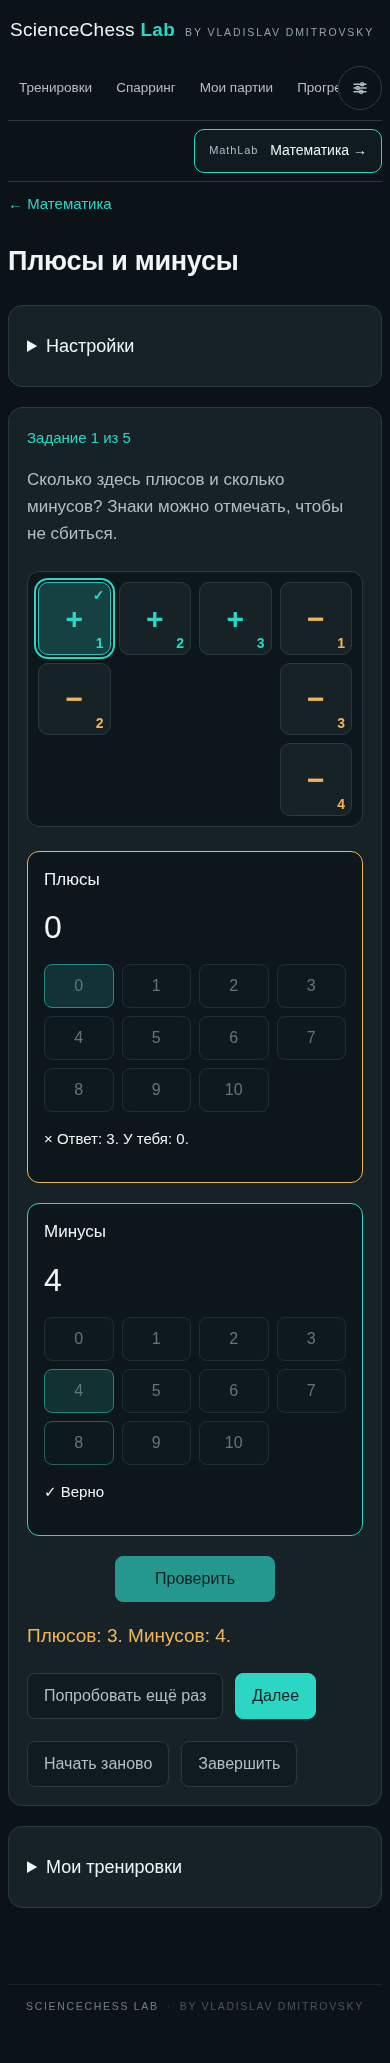
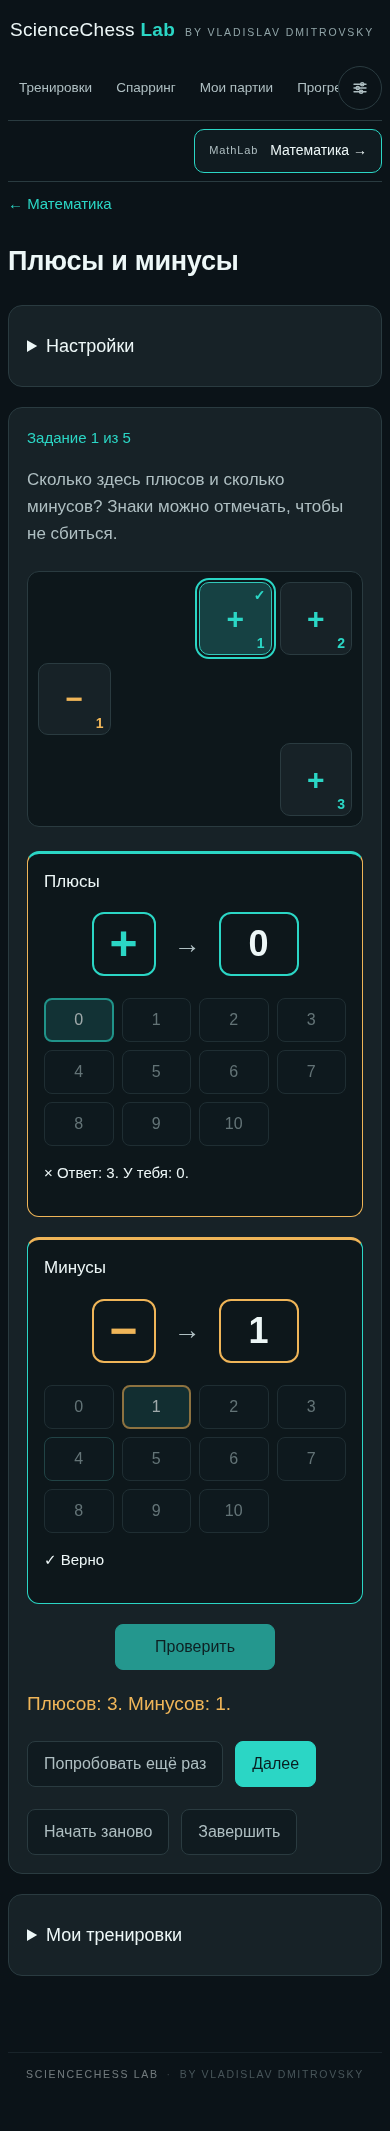
Make sign answer panels clear with matching symbols and number slots

diff --git a/src/modules/mathlab/index.ts b/src/modules/mathlab/index.ts
@@ -199,15 +199,21 @@ function mountExercise(root:HTMLElement,ctx:AppContext,id:Exercise):Unmount {
    const tile=el('button',{type:'button',class:`ml-sign-tile ${symbol==='+'?'ml-sign-plus':'ml-sign-minus'}`,'aria-label':symbol==='+'?'Плюс':'Минус','aria-pressed':'false'},[el('span',{'aria-hidden':'true'},[symbol])]);
    tile.addEventListener('click',()=>{const marked=tile.getAttribute('aria-pressed')!=='true';tile.setAttribute('aria-pressed',String(marked));});board.append(tile);
   }
-  const form=el('form',{class:'ml-sign-form'});const answers:(number|null)[]=[null,null];const outputs:HTMLElement[]=[];const groups:HTMLElement[]=[];
+  const form=el('form',{class:'ml-sign-form'});const answers:(number|null)[]=[null,null];const groups:HTMLElement[]=[];
   const check=el('button',{type:'submit',class:'btn ml-primary'},['Проверить']);check.disabled=true;
   for(const [index,title] of ['Плюсы','Минусы'].entries()){
-   const output=el('output',{'aria-label':`Количество: ${title.toLowerCase()}`,'aria-live':'polite'},['—']);outputs.push(output);
-   const group=el('div',{class:'ml-sign-answer',role:'group','aria-label':`Ответ: ${title.toLowerCase()}`},[el('h3',{},[title]),output]);
+   const output=el('output',{'aria-label':`Количество: ${title.toLowerCase()}`,'aria-live':'polite'},['?']);
+   const group=el('div',{class:`ml-sign-answer ${index===0?'ml-answer-plus':'ml-answer-minus'}`,role:'group','aria-label':`Ответ: ${title.toLowerCase()}`},[
+    el('h3',{},[title]),
+    el('div',{class:'ml-sign-count'},[
+     el('span',{class:'ml-answer-symbol','aria-hidden':'true'},[index===0?'+':'−']),
+     el('span',{class:'ml-answer-arrow','aria-hidden':'true'},['→']),output,
+    ]),
+   ]);
    const keys=el('div',{class:'ml-sign-keys'});
    for(let value=0;value<=10;value++){
     const key=el('button',{type:'button',class:'btn','aria-pressed':'false'},[String(value)]);
-    key.addEventListener('click',()=>{if(phase!=='answer')return;answers[index]=value;output.textContent=String(value);keys.querySelectorAll('button').forEach(b=>b.setAttribute('aria-pressed',String(b===key)));check.disabled=answers.some(v=>v===null);});keys.append(key);
+    key.addEventListener('click',()=>{if(phase!=='answer')return;answers[index]=value;output.textContent=String(value);group.classList.add('ml-has-answer');keys.querySelectorAll('button').forEach(b=>b.setAttribute('aria-pressed',String(b===key)));check.disabled=answers.some(v=>v===null);});keys.append(key);
    }
    group.append(keys);groups.push(group);form.append(group);
   }

diff --git a/src/modules/mathlab/styles.css b/src/modules/mathlab/styles.css
@@ -57,3 +57,13 @@
 .mathlab .ml-sign-form>button{grid-column:1/-1;justify-self:center;min-width:160px}
 .mathlab .ml-sign-correct{border-color:var(--ml-teal)}.mathlab .ml-sign-wrong{border-color:var(--ml-amber)}
 @media(max-width:650px){.mathlab .ml-sign-form{grid-template-columns:minmax(0,1fr)}.mathlab .ml-sign-board{gap:8px;padding:10px}.mathlab .ml-sign-answer{padding:16px}}
+
+/* Match each answer to the actual symbol, even before the child can read. */
+.mathlab .ml-sign-answer{--ml-answer-accent:var(--ml-teal);border-top:3px solid var(--ml-answer-accent)}
+.mathlab .ml-answer-minus{--ml-answer-accent:var(--ml-amber)}
+.mathlab .ml-sign-count{display:flex;align-items:center;justify-content:center;gap:18px;margin:18px 0 22px}
+.mathlab .ml-answer-symbol{display:grid;place-items:center;flex:0 0 64px;height:64px;border:2px solid currentColor;border-radius:12px;font-size:48px;line-height:1;font-weight:600;color:var(--ml-answer-accent)}
+.mathlab .ml-answer-arrow{font-size:27px;color:var(--fg)}
+.mathlab .ml-sign-answer output{display:grid;place-items:center;min-width:80px;height:64px;min-height:64px;margin:0;padding:0 12px;border:2px dashed var(--ml-line);border-radius:12px;color:var(--fg);font-size:36px;font-weight:600;line-height:1}
+.mathlab .ml-has-answer output{border-style:solid;border-color:var(--ml-answer-accent);color:var(--fg-strong)}
+.mathlab .ml-sign-answer .btn[aria-pressed=true]{border:2px solid var(--ml-answer-accent);padding:7px;color:var(--fg-strong)}
